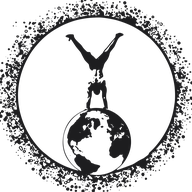
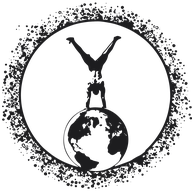
Add files via upload

Changed region(s): [[0.0, 0.0, 1.0, 1.0]]

diff --git a/index.html b/index.html
@@ -6,11 +6,11 @@
     <meta name="theme-color" content="#E6E1D6" />
     <title>Life Athletics</title>
     <!-- Favicon — purpose-built sizes so the mark fills the frame and reads crisp -->
-    <link rel="icon" type="image/png" sizes="32x32" href="/favicon-32.png?v=4" />
-    <link rel="icon" type="image/png" sizes="512x512" href="/favicon-mark.png?v=4" />
-    <link rel="apple-touch-icon" href="/apple-touch-icon.png?v=4" />
-    <link rel="icon" type="image/png" sizes="192x192" href="/icon-192.png?v=4" />
-    <link rel="manifest" href="/manifest.json?v=4" />
+    <link rel="icon" type="image/png" sizes="32x32" href="/favicon-32.png?v=5" />
+    <link rel="icon" type="image/png" sizes="512x512" href="/favicon-mark.png?v=5" />
+    <link rel="apple-touch-icon" href="/apple-touch-icon.png?v=5" />
+    <link rel="icon" type="image/png" sizes="192x192" href="/icon-192.png?v=5" />
+    <link rel="manifest" href="/manifest.json?v=5" />
     <link rel="preconnect" href="https://fonts.googleapis.com" />
     <link rel="preconnect" href="https://fonts.gstatic.com" crossorigin />
     <link